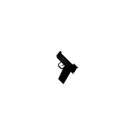
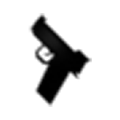
in-game UI: player one displays its weapons

Changed region(s): [[0.225, 0.1, 0.775, 0.9]]

diff --git a/src/player/Arsenal.java b/src/player/Arsenal.java
@@ -2,12 +2,13 @@ package player;
 
 import game.*;
 import utilities.BufferedImageLoader;
-import weapons.guns.Pistol;
-import weapons.guns.Weapon;
+import weapons.guns.*;
 
 import java.awt.*;
 import java.awt.image.BufferedImage;
+import java.io.File;
 import java.util.ArrayList;
+import java.util.Objects;
 
 public class Arsenal extends GameObject {
     // Default selected weapon(s) on startup
@@ -20,15 +21,14 @@ public class Arsenal extends GameObject {
     BufferedImage shadow;
     BufferedImage inventorySlots;
     BufferedImage profile;
+    BufferedImage[] weaponTextures;
 
     public Arsenal(double x, double y, Player playerIBelongTo) {
         super(x, y - 35);
         this.playerIBelongTo = playerIBelongTo;
         Controller.arsenals.add(this);
-
+        loadGunTextures();
         add(new Pistol(playerIBelongTo));
-
-        System.out.println(playerIBelongTo.getClass().toString() + " + " + playerIBelongTo.getPlayerNumber());
     }
 
     @Override
@@ -41,12 +41,33 @@ public class Arsenal extends GameObject {
         if(shadow == null){
             loadImages();
         }
+
         Graphics2D g2d = (Graphics2D) g;
         if(playerIBelongTo.getPlayerNumber()== Player.SERVER_PLAYER){
+
+            //Inventory slots
             g2d.drawImage(shadow, (int) x, (int) y+15, shadow.getWidth(), shadow.getHeight(), World.controller);
             g2d.drawImage(inventorySlots, (int) x , (int) y, inventorySlots.getWidth(), inventorySlots.getHeight(), World.controller);
+
+            //Player image
             g2d.setComposite(AlphaComposite.SrcOver.derive(0.75f));
             g2d.drawImage(profile, (int) x , (int) y, inventorySlots.getHeight(),inventorySlots.getHeight(), World.controller);
+
+            //Primary && secondary
+            if(playerIBelongTo.getSelectedWeapon() == Player.PRIMARY_WEAPON) {
+                g2d.drawImage(getWeaponTexture(primary), (int) x + 120, (int) y + 20, 65, 65, World.controller);
+                g2d.drawImage(getWeaponTexture(secondary), (int) x + 197, (int) y + 46, 46, 46, World.controller);
+            } else {
+                g2d.drawImage(getWeaponTexture(secondary), (int) x + 120, (int) y + 20, 65, 65, World.controller);
+                g2d.drawImage(getWeaponTexture(primary), (int) x + 197, (int) y + 46, 46, 46, World.controller);
+            }
+
+            //Rest of inventory
+            for (int i = 0; i < weapons.size(); i++) {
+                g2d.drawImage(getWeaponTexture(weapons.get(i)), (int) x + 250 + i * 52, (int) y + 35, 55, 55, World.controller);
+            }
+
+
             } else {
             int offset = 5;
             g2d.drawImage(shadow, (int) x - offset, (int) y+15, shadow.getWidth(), shadow.getHeight(), World.controller);
@@ -56,12 +77,37 @@ public class Arsenal extends GameObject {
         }
     }
 
+    private void loadGunTextures() {
+        weaponTextures = new BufferedImage[Objects.requireNonNull(new File("src/resources/GUI/arsenal_slot").list()).length];
+        for (int i = 0; i < weaponTextures.length; i++) {
+            weaponTextures[i] = BufferedImageLoader.loadImage("/resources/GUI/arsenal_slot/arsenal (" + (i-1) + ").png");
+        }
+    }
+
+    private BufferedImage getWeaponTexture(Weapon weapon) {
+        if(weapon instanceof Shotgun){
+            return weaponTextures[Shotgun.SERIAL +1];
+        } else if (weapon instanceof SniperRifle){
+            return weaponTextures[SniperRifle.SERIAL +1];
+        }else if (weapon instanceof Pistol){
+            return weaponTextures[Pistol.SERIAL +1];
+        }else if (weapon instanceof AssaultRifle){
+            return weaponTextures[AssaultRifle.SERIAL +1];
+        }else if (weapon instanceof RocketLauncher){
+            return weaponTextures[RocketLauncher.SERIAL +1];
+        } else {
+            return weaponTextures[0];
+        }
+    }
+
     private void loadImages() {
 
         if(playerIBelongTo.getPlayerNumber()== Player.SERVER_PLAYER) {
             shadow = BufferedImageLoader.loadImage("/resources/GUI/in-game_gui/background_shadow_gui_left_corner.png");
             inventorySlots = BufferedImageLoader.loadImage("/resources/GUI/in-game_gui/inventory_slots_left.png");
             profile = BufferedImageLoader.loadImage("/resources/GUI/character_closeups/character_closeup_blue.png");
+
+
         } else {
             shadow = BufferedImageLoader.loadImage("/resources/GUI/in-game_gui/background_shadow_gui_right_corner.png");
             inventorySlots = BufferedImageLoader.loadImage("/resources/GUI/in-game_gui/inventory_slots_right.png");
@@ -123,7 +169,7 @@ public class Arsenal extends GameObject {
     }
 
     public void setPrimary(int inventoryNum) {
-        System.out.println("setPrimary");
+        System.out.println("WEAPONS ARRAY: " + weapons);
         if (inventoryNum >= 1 && weapons.size() >= inventoryNum) {
             if (weapons.get(inventoryNum - 1).getSERIAL() == primary.getSERIAL()) {
                 // Do nothing
@@ -154,6 +200,7 @@ public class Arsenal extends GameObject {
             }
         }
         System.out.println("Weapon inventory index " + inventoryNum + " DNE.");
+
     }
 
     public void setSecondary(Weapon weapon) {

diff --git a/src/game/MouseInput.java b/src/game/MouseInput.java
@@ -24,6 +24,7 @@ public class MouseInput extends MouseAdapter {
         }
 
          */
+        System.out.println(e.getPoint());
         if (e.getButton() == MouseEvent.BUTTON1) {
             Controller.thisPlayer.setButton1Held(true);
             if (Controller.thisPlayer.getSelectedWeapon() == Player.PRIMARY_WEAPON
